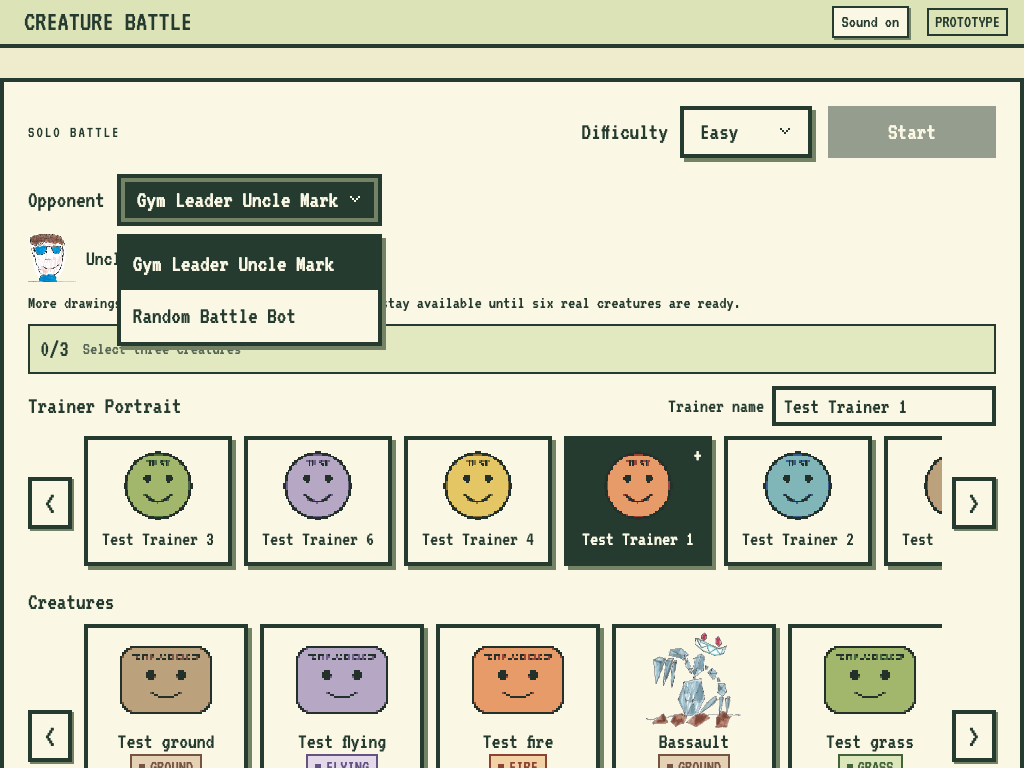
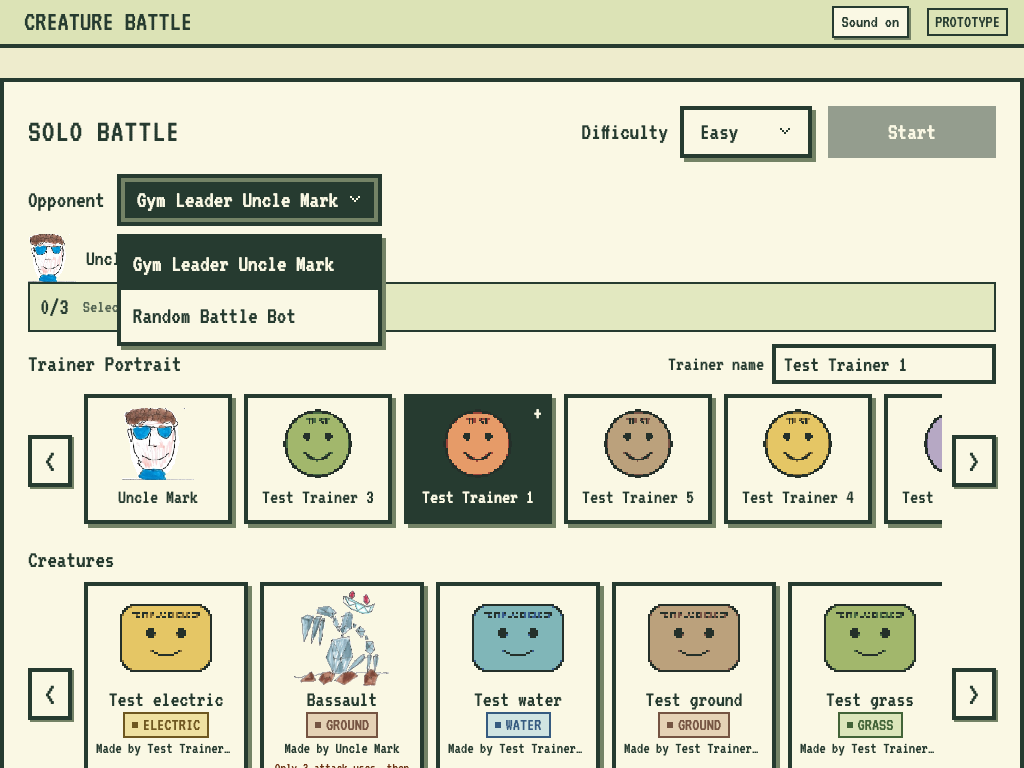
Remove roster note and enlarge team picker headings

diff --git a/creature-battle/index.html b/creature-battle/index.html
@@ -7,15 +7,15 @@
 <meta name="theme-color" content="#dce3b6">
 <title>Creature Battle</title>
 <link rel="icon" type="image/svg+xml" href="assets/favicon.svg">
-<link rel="stylesheet" href="styles.css?v=40">
-<script>const GAME_VERSION = 40; window.GAME_VERSION = GAME_VERSION;</script>
-<script type="importmap">{"imports":{"./releases/v39/src/ai.js":"./releases/v39/src/ai.js?v=40","./releases/v39/src/collection.js":"./releases/v39/src/collection.js?v=40","./releases/v39/src/engine.js":"./releases/v39/src/engine.js?v=40","./releases/v39/src/messages.js":"./releases/v39/src/messages.js?v=40","./releases/v39/src/moves.js":"./releases/v39/src/moves.js?v=40","./releases/v39/src/rng.js":"./releases/v39/src/rng.js?v=40","./releases/v39/src/rules.js":"./releases/v39/src/rules.js?v=40","./releases/v39/src/tactics.js":"./releases/v39/src/tactics.js?v=40","./releases/v39/src/trainers.js":"./releases/v39/src/trainers.js?v=40","./releases/v39/src/ui/audio.js":"./releases/v39/src/ui/audio.js?v=40","./releases/v39/src/ui/battle.js":"./releases/v39/src/ui/battle.js?v=40","./releases/v39/src/ui/components.js":"./releases/v39/src/ui/components.js?v=40","./releases/v39/src/ui/juice.js":"./releases/v39/src/ui/juice.js?v=40","./releases/v39/src/ui/main.js":"./releases/v39/src/ui/main.js?v=40","./releases/v39/src/ui/pixels.js":"./releases/v39/src/ui/pixels.js?v=40","./releases/v39/src/ui/teampick.js":"./releases/v39/src/ui/teampick.js?v=40"}}</script>
+<link rel="stylesheet" href="styles.css?v=41">
+<script>const GAME_VERSION = 41; window.GAME_VERSION = GAME_VERSION;</script>
+<script type="importmap">{"imports":{"./releases/v39/src/ai.js":"./releases/v39/src/ai.js?v=41","./releases/v39/src/collection.js":"./releases/v39/src/collection.js?v=41","./releases/v39/src/engine.js":"./releases/v39/src/engine.js?v=41","./releases/v39/src/messages.js":"./releases/v39/src/messages.js?v=41","./releases/v39/src/moves.js":"./releases/v39/src/moves.js?v=41","./releases/v39/src/rng.js":"./releases/v39/src/rng.js?v=41","./releases/v39/src/rules.js":"./releases/v39/src/rules.js?v=41","./releases/v39/src/tactics.js":"./releases/v39/src/tactics.js?v=41","./releases/v39/src/trainers.js":"./releases/v39/src/trainers.js?v=41","./releases/v39/src/ui/audio.js":"./releases/v39/src/ui/audio.js?v=41","./releases/v39/src/ui/battle.js":"./releases/v39/src/ui/battle.js?v=41","./releases/v39/src/ui/components.js":"./releases/v39/src/ui/components.js?v=41","./releases/v39/src/ui/juice.js":"./releases/v39/src/ui/juice.js?v=41","./releases/v39/src/ui/main.js":"./releases/v39/src/ui/main.js?v=41","./releases/v39/src/ui/pixels.js":"./releases/v39/src/ui/pixels.js?v=41","./releases/v39/src/ui/teampick.js":"./releases/v39/src/ui/teampick.js?v=41"}}</script>
 </head>
 <body>
 <header><a id="game-home" href="./">Creature Battle</a><button id="sound-toggle" class="sound-toggle" type="button">Sound on</button><span class="prototype-tag">PROTOTYPE</span><span id="debug-tag" hidden>DEBUG</span><button id="quit-game" hidden>Quit game</button></header>
 <dialog id="quit-dialog" aria-labelledby="quit-title"><h2 id="quit-title">Quit this battle?</h2><p>Your current battle will end.</p><div class="choices"><button id="keep-playing" autofocus>Keep playing</button><button id="confirm-quit">Quit game</button></div></dialog>
 <main id="app">Loading the collection…</main>
 <div id="rotate" hidden>Turn your screen sideways to battle!</div>
-<script type="module" src="releases/v39/src/ui/main.js?v=40"></script>
+<script type="module" src="releases/v39/src/ui/main.js?v=41"></script>
 </body>
 </html>

diff --git a/creature-battle/styles.css b/creature-battle/styles.css
@@ -92,7 +92,7 @@
 
 .grid.five-actions{grid-template-rows:repeat(3,1fr)}
 
-.attack-warning{display:block;color:#6c3414;font-size:14px;line-height:1.2}.roster-note{font-size:18px}
+.attack-warning{display:block;color:#6c3414;font-size:14px;line-height:1.2}
 
 .pick-card.selected .attack-warning{color:#ffe4a4}
 @media(max-height:500px) and (min-width:700px){.pick-card{height:auto;min-height:166px}}
@@ -102,3 +102,6 @@
 .opponent-label .difficulty-trigger{max-width:100%;gap:12px;text-align:left;white-space:normal}
 .opponent-label .difficulty-options{min-width:100%;max-height:240px;overflow:auto}
 .difficulty-option.highlighted{background:var(--ink);color:var(--surface)}
+
+.team-picker .picker-heading .eyebrow{font-size:32px;line-height:1.1;letter-spacing:1px}
+@media(max-width:700px),(max-height:500px){.team-picker .picker-heading .eyebrow{font-size:28px}}

diff --git a/creature-battle/releases/v39/src/ui/teampick.js b/creature-battle/releases/v39/src/ui/teampick.js
@@ -16,7 +16,6 @@ export function teamPick({app,collection,rules,side,imageSrc,portraitSrc,onDone,
   opponentPreview();
  }
 
- if(collection.some(c=>c.prototype))panel.append(el('p','roster-note','More drawings are coming! Labeled TEST creatures stay available until six real creatures are ready.'));
  const team=[],rule=teamRule(collection),options=rule.duplicates?Array.from({length:3},(_,i)=>({c:collection[i%collection.length],key:`copy-${i}`})):collection.map(c=>({c,key:c.id}));
  let trainer=collection.find(c=>c.id===initialChoice?.trainerId)??collection[Math.min(side,collection.length-1)];
  if(initialChoice)for(const c of initialChoice.team){const entry=options.find(e=>e.c.id===c.id&&!team.includes(e));if(entry)team.push(entry);}

diff --git a/creature-battle/design/acceptance/pixel-resolution/README.md b/creature-battle/design/acceptance/pixel-resolution/README.md
@@ -5,7 +5,7 @@ are preserved; test creatures and the practice bot keep the existing 48px palett
 
 The opponent selector shares the difficulty selector's pixel menu, including
 keyboard navigation, Escape, focus dismissal, and accessible listbox roles.
-Version 40 pins every runtime/CSS URL together; frozen v37 modules are unchanged.
+Version 41 pins every runtime/CSS URL together; frozen v37 modules are unchanged.
 
 Validation: 93 Node tests, 7 Python intake tests, collection validation, and
 pixels-browser.mjs at 320×740, 390×844, 844×390, and 1024×768. Pixel checks decode
@@ -15,3 +15,6 @@ selection versus keyboard focus, Escape/Tab, font, square borders, and overflow.
 launch-browser.mjs passes audio, animation, cache recovery, and mixed-v37 checks.
 gym-browser.mjs passes five complete battles (Easy/Hard gym and random opponents,
 plus friend mode), rematches, facing during animations, and smaller picker checks.
+
+The team picker omits the coming-soon roster message. Its SOLO BATTLE / PLAYER
+heading is now 32px on desktop and 28px on phones and short landscape screens.
